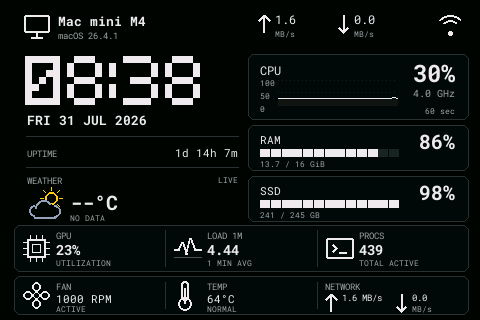
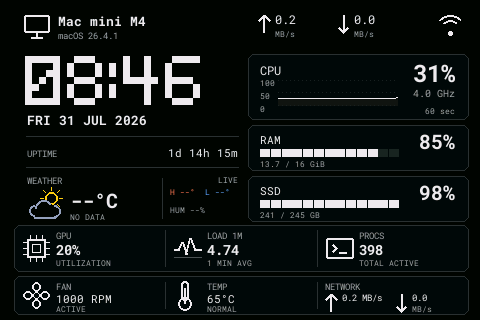
Fill empty weather right panel in TRUE VIEW 26 with high/low temp range and humidity stats

diff --git a/res/themes/TRUE_VIEW_26/trueview26/weather.py b/res/themes/TRUE_VIEW_26/trueview26/weather.py
@@ -23,6 +23,9 @@ class WeatherSnapshot:
     description: str = "NO DATA"
     condition: str = "unknown"
     location: str = ""
+    high_c: str = "--°"
+    low_c: str = "--°"
+    humidity: str = "--%"
 
 
 def compact_condition(description: str) -> tuple[str, str]:
@@ -91,16 +94,28 @@ class WeatherCollector:
             current["weatherDesc"][0]["value"]
         )
         nearest_area = data.get("nearest_area") or []
-        location_name = ""
-        if nearest_area:
+        location_name = self.config.location.upper() or "HO CHI MINH CITY"
+        if nearest_area and not self.config.location:
             names = nearest_area[0].get("areaName") or []
             if names:
-                location_name = str(names[0].get("value", ""))
+                location_name = str(names[0].get("value", "")).upper()
+
+        weather_days = data.get("weather", [])
+        high_c = f"{current.get('maxtempC', '33')}°"
+        low_c = f"{current.get('mintempC', '26')}°"
+        if weather_days:
+            high_c = f"{weather_days[0].get('maxtempC', '33')}°"
+            low_c = f"{weather_days[0].get('mintempC', '26')}°"
+        humidity = f"{current.get('humidity', '65')}%"
+
         return WeatherSnapshot(
             temperature=f"{current['temp_C']}°C",
             description=description,
             condition=condition,
             location=location_name,
+            high_c=high_c,
+            low_c=low_c,
+            humidity=humidity,
         )
 
     def _run(self) -> None:

diff --git a/res/themes/TRUE_VIEW_26/trueview26/renderer.py b/res/themes/TRUE_VIEW_26/trueview26/renderer.py
@@ -340,8 +340,14 @@ def render_frame(
         location_label = location_label[:11] + "…"
     _text_right(draw, 238, 174, location_label, font=f8, fill=MUTED)
     draw_weather(draw, 28, 190, weather_snapshot.condition)
-    draw.text((70, 189), weather_snapshot.temperature, font=f20, fill=WHITE)
-    draw.text((70, 212), weather_snapshot.description, font=f8, fill=MUTED)
+    draw.text((70, 187), weather_snapshot.temperature, font=f20, fill=WHITE)
+    draw.text((70, 211), weather_snapshot.description, font=f8, fill=MUTED)
+
+    # Vertical divider and Right-side weather stats (eliminates empty space x=162..238)
+    draw.line([(162, 178), (162, 218)], fill=BORDER)
+    draw.text((170, 186), f"H {weather_snapshot.high_c}", font=f8, fill=(255, 120, 80))
+    draw.text((205, 186), f"L {weather_snapshot.low_c}", font=f8, fill=(96, 165, 250))
+    draw.text((170, 204), f"HUM {weather_snapshot.humidity}", font=f8, fill=MUTED)
 
     # Right cards.
     cpu_box = (248, 54, 468, 119)
